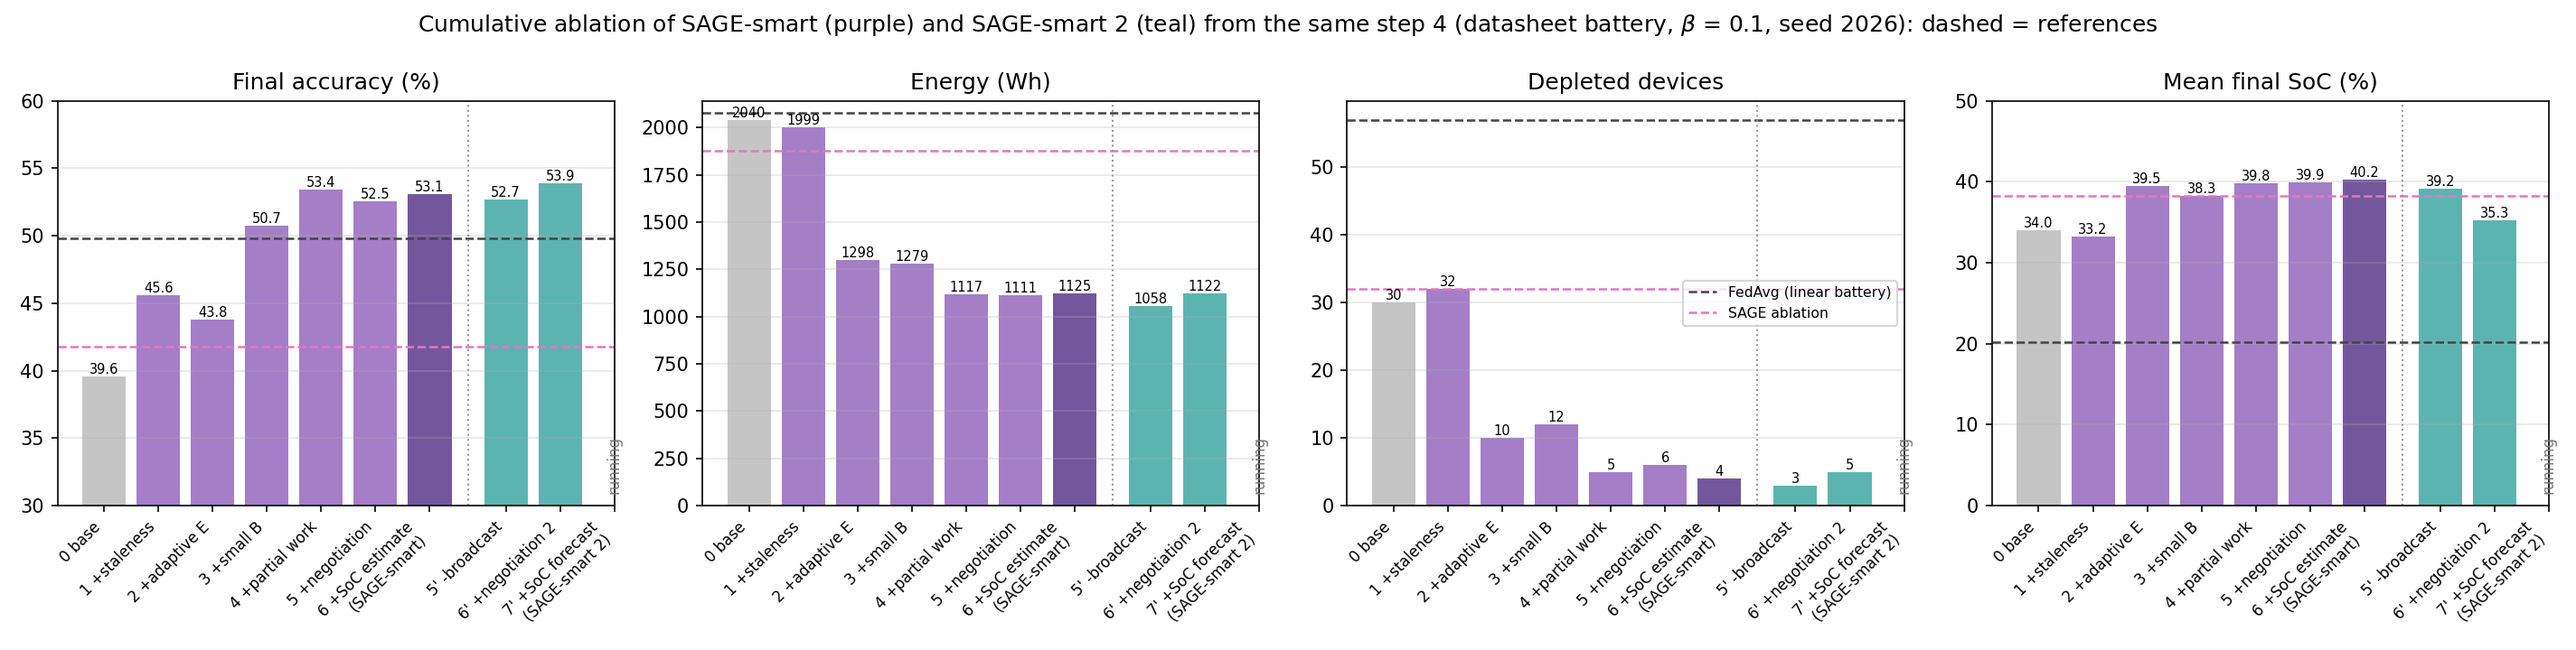
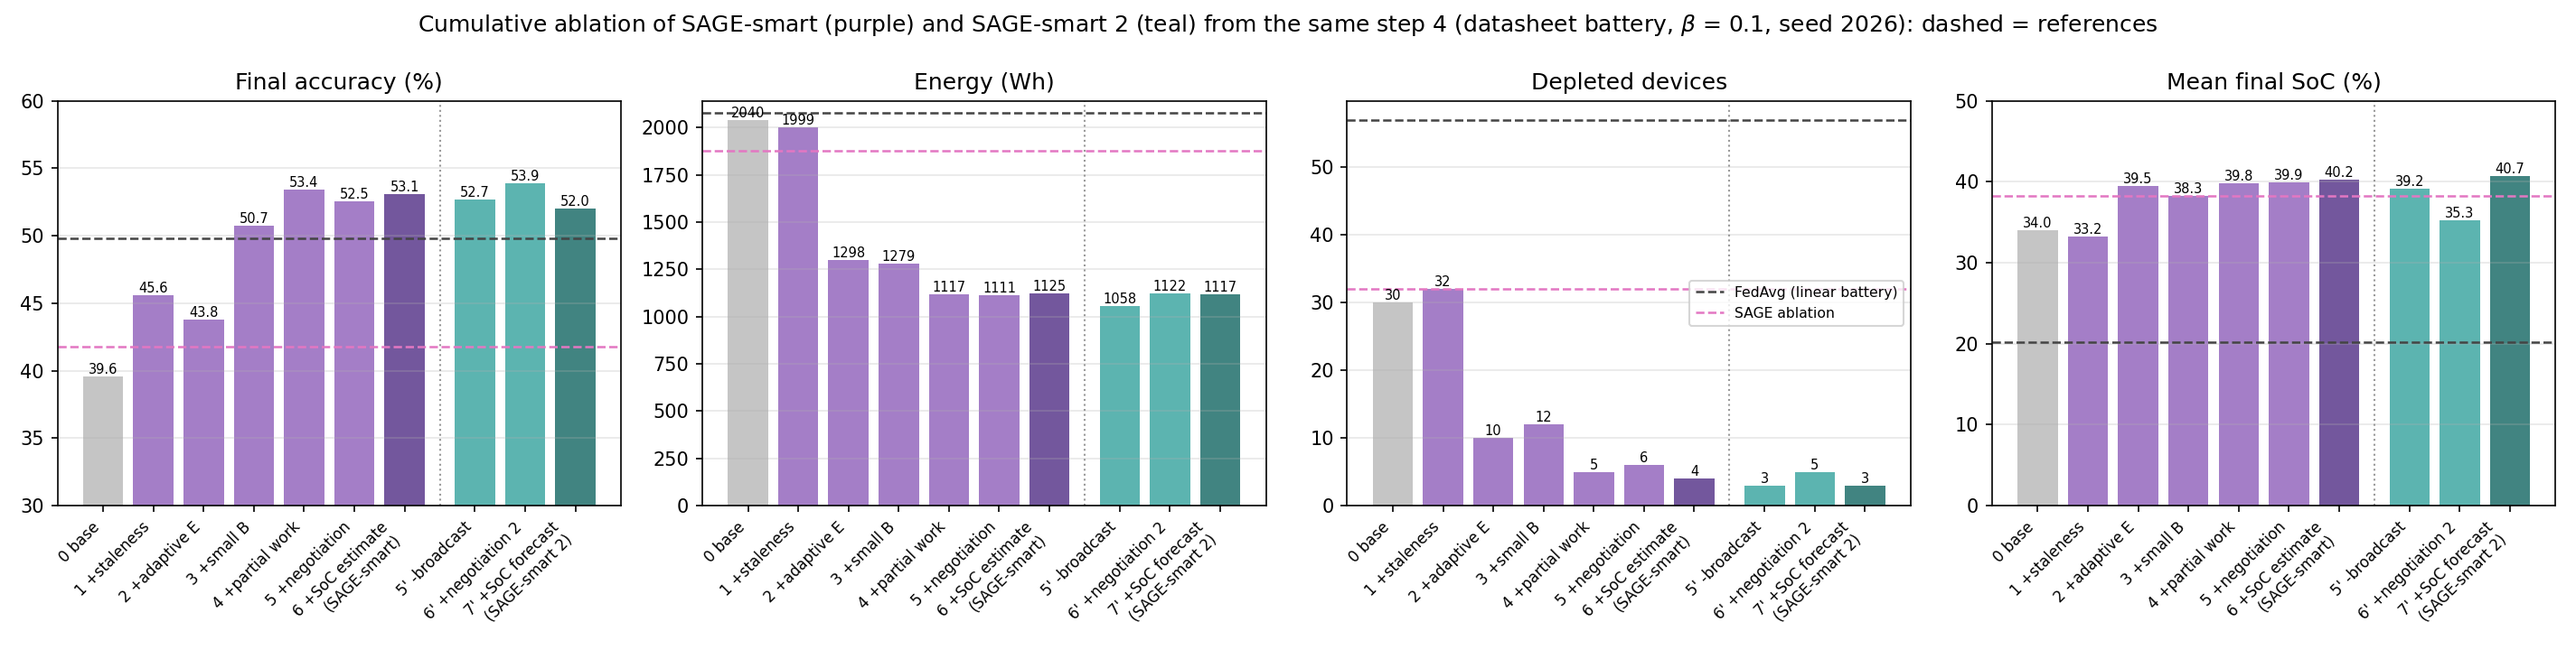
dio aiutami

diff --git a/report15_figs/fig_cumulative.py b/report15_figs/fig_cumulative.py
@@ -35,6 +35,28 @@ steps = [
     ("6' +negotiation 2", "sage_smart2_nofc_nm_x1", TEAL, 8.4),
     ("7' +SoC forecast\n(SAGE-smart 2)", "sage_smart2_socfc_nm_x1", DARK_TEAL, 9.4),
 ]
+# [10/11] solo SAGE-smart 2, con la scala del report 13 chiesta dall'utente
+# (0 base, 1 +c, 2 +E adattivo, 3 +B adattivo, 4 +negoziazione, 5 +stima SoC)
+# piu' il lavoro parziale come gradino a se': fa parte di SAGE-smart 2 e
+# senza il suo gradino il suo guadagno (+2.7 punti) finirebbe sulla
+# negoziazione. La negoziazione di SAGE-smart 2 (rosa di 1.5 k, scelta
+# fresca) prende il posto del broadcast dello stato: 4 -> 5 e' pcum4 -> nofc.
+# [10/11] l'utente vuole ESATTAMENTE i sei gradini del report 13. Il lavoro
+# parziale entra nell'E adattivo (il client decide quanto lavorare, anche
+# meno di un'epoca), cosi' ogni gradino e' un solo componente:
+# 2 = cum2p (cum2 + lavoro parziale), 3 = pcum4 (cum3 + lavoro parziale),
+# 4 = nofc (negoziazione, che prende il posto del broadcast), 5 = socfc.
+steps2 = [
+    ("0 base", "sage_smart_cum0_nm_x1", "#bbbbbb", 0.0),
+    ("1 +staleness (c)", "sage_smart_cum1_nm_x1", TEAL, 1.0),
+    ("2 +adaptive E", "sage_smart_cum2p_nm_x1", TEAL, 2.0),
+    ("3 +adaptive B", "sage_smart_pcum4_nm_x1", TEAL, 3.0),
+    ("4 +negotiation", "sage_smart2_nofc_nm_x1", TEAL, 4.0),
+    ("5 +SoC estimate\n(SAGE-smart 2)", "sage_smart2_socfc_nm_x1", DARK_TEAL, 5.0),
+]
+NOTE2 = ("Adaptive E includes partial work: a client that cannot meet the deadline even with E = 2 "
+         "sends the SGD steps that fit, weighted by the samples seen. Steps 0-3 poll the state "
+         "with a broadcast; from step 4 the negotiation replaces it.")
 ref = {"FedAvg (linear battery)": os.path.join(MAIN, f"fedavg_b{B}_seed2026.csv"),
        "SAGE ablation": os.path.join(MAIN, f"sage_nm_b{B}_seed2026.csv")}
 
@@ -50,46 +72,61 @@ def final(path):
 
 metrics = ["Final accuracy (%)", "Energy (Wh)", "Depleted devices", "Mean final SoC (%)"]
 fmt = ["{:.1f}", "{:.0f}", "{:d}", "{:.1f}"]
-vals = {}
-for name, lab, _, _ in steps:
-    p = os.path.join(CUM, f"{lab}_b{B}_seed2026.csv")
-    vals[name] = final(p) if os.path.exists(p) else None
 refv = {name: final(p) for name, p in ref.items()}
 
-fig, ax = plt.subplots(1, 4, figsize=(19, 4.8))
-for k in range(4):
-    a = ax[k]
-    for name, _, col, x in steps:
-        v = vals[name]
-        if v is None:      # run non ancora finita: segnaposto (coordinate dell'asse)
-            a.text(x, 0.03, "running", rotation=90, ha="center", va="bottom", fontsize=8,
-                   color="#777777", transform=a.get_xaxis_transform())
-            continue
-        a.bar(x, v[k], color=col, alpha=0.85)
-        a.text(x, v[k], fmt[k].format(v[k]), ha="center", va="bottom", fontsize=7)
-    for (rname, rv), rc in zip(refv.items(), ("#444444", "#e377c2")):
-        a.axhline(rv[k], color=rc, ls="--", lw=1.2, label=rname)
-    a.axvline(6.7, color="#999999", ls=":", lw=1)       # fra i due rami
-    a.set_xticks([x for _, _, _, x in steps])
-    a.set_xticklabels([n for n, _, _, _ in steps], rotation=45, ha="right", fontsize=8)
-    a.set_title(metrics[k])
-    a.grid(axis="y", alpha=0.3)
-ax[0].set_ylim(30, 60)
-ax[3].set_ylim(0, 50)
-ax[2].legend(fontsize=7.5, loc="center right")
-fig.suptitle("Cumulative ablation of SAGE-smart (purple) and SAGE-smart 2 (teal) from the same step 4 "
-             "(datasheet battery, $\\beta$ = 0.1, seed 2026): dashed = references")
-fig.tight_layout()
-os.makedirs(OUT, exist_ok=True)
-out = os.path.join(OUT, "fig_cumulative_ablation_b01.png")
-fig.savefig(out, dpi=150)
 
-print(f"{'gradino':34s}   acc     Wh  scarichi  SoC finale")
-for name, _, _, _ in steps:
-    v = vals[name]
-    label = name.replace("\n", " ")
-    print(f"  {label:32s} " + ("  in corso" if v is None else
-                               f"{v[0]:5.1f} {v[1]:6.0f} {v[2]:6d} {v[3]:8.1f}"))
-for name, v in refv.items():
-    print(f"  {name:32s} {v[0]:5.1f} {v[1]:6.0f} {v[2]:6d} {v[3]:8.1f}")
-print("figura:", out)
+def draw(steps, fname, title, sep=None, figsize=(19, 4.8), note=None):
+    vals = {}
+    for name, lab, _, _ in steps:
+        p = os.path.join(CUM, f"{lab}_b{B}_seed2026.csv")
+        vals[name] = final(p) if os.path.exists(p) else None
+    fig, ax = plt.subplots(1, 4, figsize=figsize)
+    for k in range(4):
+        a = ax[k]
+        for name, _, col, x in steps:
+            v = vals[name]
+            if v is None:      # run non ancora finita: segnaposto (coordinate dell'asse)
+                a.text(x, 0.03, "running", rotation=90, ha="center", va="bottom", fontsize=8,
+                       color="#777777", transform=a.get_xaxis_transform())
+                continue
+            a.bar(x, v[k], color=col, alpha=0.85)
+            a.text(x, v[k], fmt[k].format(v[k]), ha="center", va="bottom", fontsize=7)
+        for (rname, rv), rc in zip(refv.items(), ("#444444", "#e377c2")):
+            a.axhline(rv[k], color=rc, ls="--", lw=1.2, label=rname)
+        if sep is not None:
+            a.axvline(sep, color="#999999", ls=":", lw=1)       # fra i due rami
+        a.set_xticks([x for _, _, _, x in steps])
+        a.set_xticklabels([n for n, _, _, _ in steps], rotation=45, ha="right", fontsize=8)
+        a.set_title(metrics[k])
+        a.grid(axis="y", alpha=0.3)
+    ax[0].set_ylim(30, 60)
+    ax[3].set_ylim(0, 50)
+    ax[2].legend(fontsize=7.5, loc="center right")
+    fig.suptitle(title)
+    if note:
+        fig.text(0.5, 0.01, note, ha="center", va="bottom", fontsize=8.5, color="#444444")
+        fig.tight_layout(rect=(0, 0.05, 1, 1))
+    else:
+        fig.tight_layout()
+    os.makedirs(OUT, exist_ok=True)
+    out = os.path.join(OUT, fname)
+    fig.savefig(out, dpi=150)
+    plt.close(fig)
+
+    print(f"{'gradino':34s}   acc     Wh  scarichi  SoC finale")
+    for name, _, _, _ in steps:
+        v = vals[name]
+        label = name.replace("\n", " ")
+        print(f"  {label:32s} " + ("  in corso" if v is None else
+                                   f"{v[0]:5.1f} {v[1]:6.0f} {v[2]:6d} {v[3]:8.1f}"))
+    for name, v in refv.items():
+        print(f"  {name:32s} {v[0]:5.1f} {v[1]:6.0f} {v[2]:6d} {v[3]:8.1f}")
+    print("figura:", out, "\n")
+
+
+draw(steps, "fig_cumulative_ablation_b01.png",
+     "Cumulative ablation of SAGE-smart (purple) and SAGE-smart 2 (teal) from the same step 4 "
+     "(datasheet battery, $\\beta$ = 0.1, seed 2026): dashed = references", sep=6.7)
+draw(steps2, "fig_cumulative_ablation_smart2_b01.png",
+     "Cumulative ablation of SAGE-smart 2, one component per step (datasheet battery, "
+     "$\\beta$ = 0.1, seed 2026): dashed = references", figsize=(14, 4.9), note=NOTE2)
